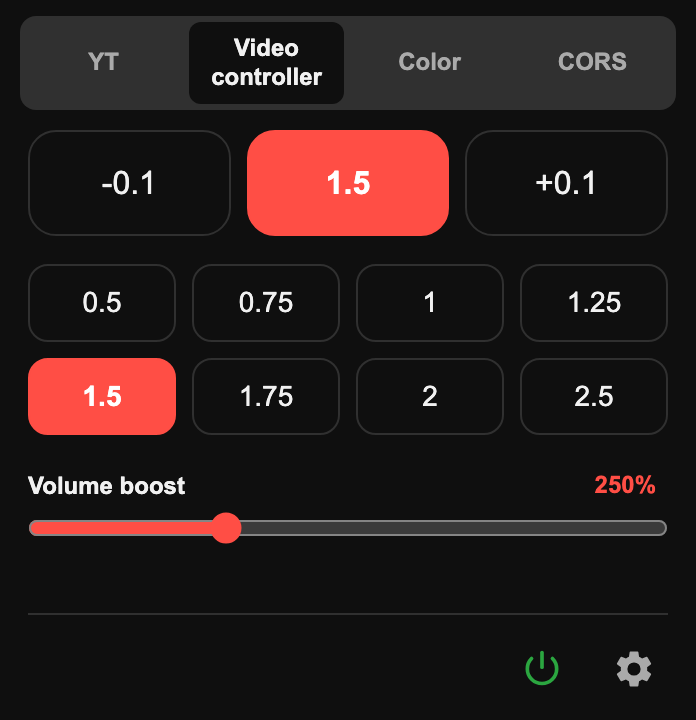
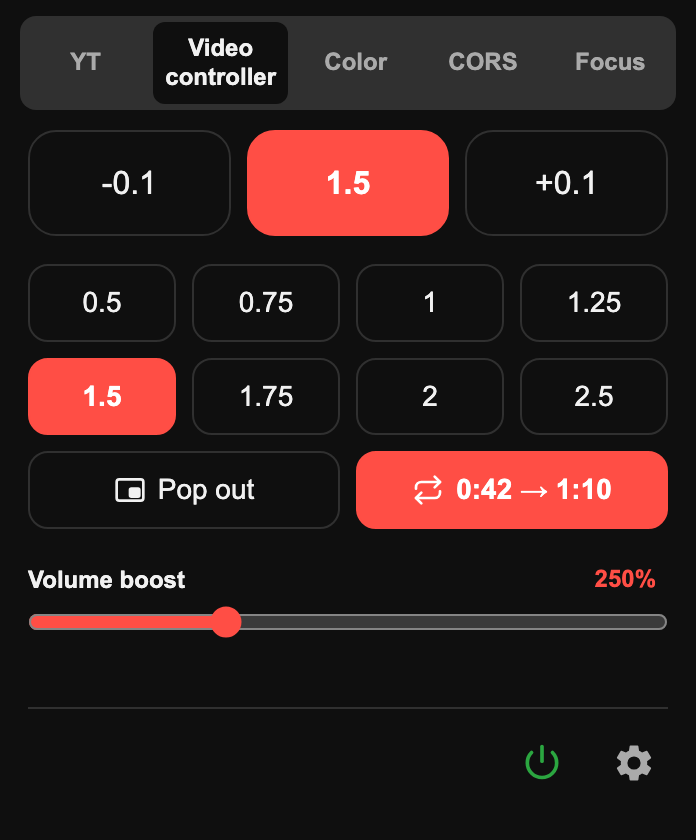
Add picture-in-picture and A–B loop to the Video controller
P toggles picture-in-picture and A sets a loop start, end, then clears it.
Both are also on the video overlay and in the popup.

diff --git a/speed.js b/speed.js
@@ -5,7 +5,8 @@
 // media inside shadow DOM.
 //
 // Keys: S slower, D faster, R reset to 1× (again: back), G toggle 1.8×,
-//       Z back 10s, X forward 10s, V show/hide the speed overlay.
+//       Z back 10s, X forward 10s, V show/hide the speed overlay,
+//       P picture-in-picture, A A–B loop (set start, set end, clear).
 //
 // Also boosts volume past 100% (set from the popup), like the Volume Booster
 // extension, by routing each element through a Web Audio gain node.
@@ -21,7 +22,8 @@
   // user's choice (e.g. YouTube's own speed menu) and adopted.
   const GRACE = 2000;
   const STORE = 'speed-last';
-  const KEYS = { s: 'slower', d: 'faster', r: 'reset', g: 'preferred', z: 'rewind', x: 'advance', v: 'display' };
+  const KEYS = { s: 'slower', d: 'faster', r: 'reset', g: 'preferred', z: 'rewind', x: 'advance', v: 'display',
+    p: 'pip', a: 'loop' };
 
   let settings = { ...YTQH_DEFAULTS };
   let speed = 1;
@@ -29,7 +31,7 @@
   let overlaysHidden = false;
   let hasDetached = false; // speed-main.js has seen page-created audio
   let sweepTimer = 0;
-  const media = new Map(); // element -> { host, box, label, loadedAt }
+  const media = new Map(); // element -> { host, box, label, loadedAt, loopA, loopB }
 
   const active = () => settings.enabled && settings.speed;
   const round = (v) => Math.round(Math.min(MAX, Math.max(MIN, v)) * 100) / 100;
@@ -44,6 +46,13 @@
     media.set(el, st);
     const loaded = () => { st.loadedAt = Date.now(); enforce(el); place(el); boostEl(el); };
     el.addEventListener('loadstart', loaded);
+    // YouTube reuses the same element for the next video: drop its loop.
+    el.addEventListener('loadstart', () => clearLoop(el));
+    el.addEventListener('ended', () => {
+      if (st.loopB == null) return;
+      el.currentTime = st.loopA;
+      el.play().catch(() => {});
+    });
     el.addEventListener('loadedmetadata', loaded);
     el.addEventListener('play', loaded);
     el.addEventListener('ratechange', () => onRateChange(el));
@@ -120,7 +129,9 @@
   `;
 
   const BUTTONS = [['rewind', '«', 'Back 10s (Z)'], ['slower', '−', 'Slower (S)'],
-    ['faster', '+', 'Faster (D)'], ['advance', '»', 'Forward 10s (X)'], ['display', '×', 'Hide (V)']];
+    ['faster', '+', 'Faster (D)'], ['advance', '»', 'Forward 10s (X)'],
+    ['loop', '⟲', 'A–B loop (A)'], ['pip', '⧉', 'Picture-in-picture (P)'], ['display', '×', 'Hide (V)']];
+  const BEFORE_LABEL = new Set(['rewind', 'slower']);
 
   function build(el, st) {
     const host = document.createElement('ytqh-speed');
@@ -139,7 +150,7 @@
       b.textContent = text;
       b.title = title;
       b.addEventListener('click', () => run(action));
-      box.insertBefore(b, action === 'faster' || action === 'advance' || action === 'display' ? null : label);
+      box.insertBefore(b, BEFORE_LABEL.has(action) ? label : null);
     }
     // Keep clicks on the overlay from pausing or seeking the player underneath.
     for (const type of ['click', 'dblclick', 'mousedown', 'mouseup', 'pointerdown', 'pointerup', 'touchstart']) {
@@ -179,7 +190,9 @@
 
   function updateLabel(el) {
     const st = media.get(el);
-    if (st?.label) st.label.textContent = fmt(el.playbackRate);
+    if (!st?.label) return;
+    const loop = st.loopB != null ? ' A–B' : st.loopA != null ? ' A' : '';
+    st.label.textContent = fmt(el.playbackRate) + loop;
   }
 
   function flash() {
@@ -214,6 +227,93 @@
     document.dispatchEvent(new CustomEvent('ytqh-seek', { detail: delta }));
   }
 
+  // The element the user most likely means: a playing video, then any playing
+  // media, then the biggest video on the page.
+  function mainMedia() {
+    const els = [...media.keys()].filter((el) => el.isConnected);
+    const isVideo = (el) => el instanceof HTMLVideoElement;
+    const area = (el) => el.offsetWidth * el.offsetHeight;
+    return els.find((el) => isVideo(el) && !el.paused) || els.find((el) => !el.paused) ||
+      els.filter(isVideo).sort((a, b) => area(b) - area(a))[0] || els[0] || null;
+  }
+
+  // --- Picture-in-picture ---
+
+  async function togglePip() {
+    if (document.pictureInPictureElement) {
+      await document.exitPictureInPicture().catch(() => {});
+      return 'exited';
+    }
+    const el = mainMedia();
+    if (!(el instanceof HTMLVideoElement) || !document.pictureInPictureEnabled) return null;
+    // Some sites opt their player out; the user asked for it, so opt back in.
+    el.removeAttribute('disablePictureInPicture');
+    try {
+      await el.requestPictureInPicture();
+      return 'entered';
+    } catch {
+      return 'failed';
+    }
+  }
+
+  // The popup calls this through chrome.scripting.executeScript, which
+  // carries over the click on its button: requestPictureInPicture() needs one.
+  window.ytqhTogglePip = () => (active() ? togglePip() : null);
+
+  // --- A–B loop ---
+
+  let loopTimer = 0;
+
+  function clearLoop(el) {
+    const st = media.get(el);
+    if (!st || st.loopA == null) return;
+    st.loopA = st.loopB = null;
+    updateLabel(el);
+  }
+
+  // First press marks A, second marks B and starts looping, third clears it.
+  function cycleLoop() {
+    const el = mainMedia();
+    const st = media.get(el);
+    if (!st) return;
+    const t = el.currentTime;
+    if (st.loopA == null) {
+      st.loopA = t;
+    } else if (st.loopB == null) {
+      const [a, b] = t < st.loopA ? [t, st.loopA] : [st.loopA, t];
+      if (b - a < 0.5) {
+        clearLoop(el);
+      } else {
+        Object.assign(st, { loopA: a, loopB: b });
+        el.currentTime = a;
+        // timeupdate only fires every ~250ms, too coarse to end the loop on time.
+        loopTimer ||= setInterval(loopTick, 50);
+      }
+    } else {
+      clearLoop(el);
+    }
+    updateLabel(el);
+    flash();
+  }
+
+  function loopTick() {
+    let looping = false;
+    for (const [el, st] of media) {
+      if (st.loopB == null) continue;
+      looping = true;
+      if (el.currentTime >= st.loopB) el.currentTime = st.loopA;
+    }
+    if (!looping) {
+      clearInterval(loopTimer);
+      loopTimer = 0;
+    }
+  }
+
+  function loopState() {
+    const st = media.get(mainMedia());
+    return st?.loopA != null ? { a: st.loopA, b: st.loopB } : null;
+  }
+
   function run(action) {
     switch (action) {
       case 'slower': return setSpeed(speed - STEP);
@@ -224,6 +324,8 @@
       case 'preferred': return setSpeed(speed === PREFERRED ? 1 : PREFERRED);
       case 'rewind': return seek(-SEEK);
       case 'advance': return seek(SEEK);
+      case 'pip': return togglePip();
+      case 'loop': return cycleLoop();
       case 'display':
         overlaysHidden = !overlaysHidden;
         for (const el of media.keys()) place(el);
@@ -337,13 +439,15 @@
       return;
     }
     (async () => {
+      if (msg.loop && active()) cycleLoop();
       if ('boost' in msg && active()) {
         boost = Math.min(6, Math.max(1, msg.boost));
         await applyBoost();
       }
       if (!hasMedia) await new Promise((r) => setTimeout(r, 150));
       const routable = [...media.keys()].some((el) => el.isConnected && (gains.has(el) || canRoute(el)));
-      reply({ speed, hasMedia, boost, boostBlocked, boostUnsupported: hasMedia && !routable });
+      reply({ speed, hasMedia, boost, boostBlocked, boostUnsupported: hasMedia && !routable,
+        loop: loopState(), pip: !!document.pictureInPictureElement });
     })();
     return true;
   });

diff --git a/popup.js b/popup.js
@@ -119,6 +119,8 @@ function askTab(msg) {
       }
       showSpeed(res.speed);
       showBoost(res.boost ?? 1);
+      showLoop(res.loop);
+      document.getElementById('pip-btn').classList.toggle('active', !!res.pip);
       status.textContent = !res.hasMedia ? 'No video or audio on this page yet.'
         : res.boostBlocked ? 'Click anywhere on the page once to start the volume boost.'
         : res.boostUnsupported && res.boost > 1 ? 'This page\'s audio can\'t be boosted (it comes from another site).'
@@ -143,6 +145,42 @@ document.getElementById('speed-power').addEventListener('click', () => {
 document.getElementById('speed-gear').addEventListener('click', (e) => {
   speedForm.hidden = !speedForm.hidden;
   e.currentTarget.classList.toggle('on', !speedForm.hidden);
+});
+
+// --- Picture-in-picture and A–B loop ---
+
+const loopBtn = document.getElementById('loop-btn');
+const loopLabel = document.getElementById('loop-label');
+const clock = (t) => `${Math.floor(t / 60)}:${String(Math.floor(t % 60)).padStart(2, '0')}`;
+
+function showLoop(loop) {
+  loopLabel.textContent = !loop ? 'Set A'
+    : loop.b == null ? `${clock(loop.a)} → set B` : `${clock(loop.a)} → ${clock(loop.b)}`;
+  loopBtn.classList.toggle('active', loop?.b != null);
+}
+
+// Runs speed.js's toggle through executeScript rather than a message, because
+// only executeScript passes this click on to the page, and the browser won't
+// open picture-in-picture without one.
+document.getElementById('pip-btn').addEventListener('click', () => {
+  if (!speedOn) return;
+  chrome.tabs.query({ active: true, currentWindow: true }, ([tab]) => {
+    if (!tab) return;
+    chrome.scripting.executeScript({
+      target: { tabId: tab.id, allFrames: true },
+      func: () => window.ytqhTogglePip?.() ?? null,
+    }, (res) => {
+      const results = chrome.runtime.lastError ? [] : (res || []).map((r) => r.result);
+      if (results.includes('entered')) window.close();
+      else if (results.includes('exited')) document.getElementById('pip-btn').classList.remove('active');
+      else status.textContent = results.includes('failed')
+        ? 'This video can\'t be popped out.' : 'No video to pop out on this page.';
+    });
+  });
+});
+
+loopBtn.addEventListener('click', () => {
+  if (speedOn) askTab({ loop: true });
 });
 
 // --- Volume boost ---

diff --git a/popup.html b/popup.html
@@ -29,6 +29,16 @@
       <button type="button" class="speed-btn" data-step="0.1">+0.1</button>
     </div>
     <div class="speed-presets" id="speed-presets"></div>
+    <div class="speed-tools">
+      <button type="button" class="speed-btn tool-btn" id="pip-btn" title="Picture-in-picture (P)">
+        <svg viewBox="0 0 24 24" width="16" height="16" fill="none" stroke="currentColor" stroke-width="2" stroke-linecap="round" stroke-linejoin="round"><rect x="2" y="4" width="20" height="16" rx="2"/><rect x="12" y="11" width="7" height="6" rx="1" fill="currentColor"/></svg>
+        <span>Pop out</span>
+      </button>
+      <button type="button" class="speed-btn tool-btn" id="loop-btn" title="A–B loop (A): set start, set end, clear">
+        <svg viewBox="0 0 24 24" width="16" height="16" fill="none" stroke="currentColor" stroke-width="2" stroke-linecap="round" stroke-linejoin="round"><path d="m17 2 4 4-4 4"/><path d="M3 11v-1a4 4 0 0 1 4-4h14"/><path d="m7 22-4-4 4-4"/><path d="M21 13v1a4 4 0 0 1-4 4H3"/></svg>
+        <span id="loop-label">Set A</span>
+      </button>
+    </div>
     <div class="boost">
       <div class="boost-head">
         <span>Volume boost</span>

diff --git a/popup.css b/popup.css
@@ -175,6 +175,21 @@ body.off .row:not(:first-of-type) {
   font-size: 16px;
 }
 
+.speed-tools {
+  display: grid;
+  grid-template-columns: 1fr 1fr;
+  gap: 8px;
+  margin-top: 8px;
+}
+
+.tool-btn {
+  display: flex;
+  align-items: center;
+  justify-content: center;
+  gap: 6px;
+  font-variant-numeric: tabular-nums;
+}
+
 .speed-btn:hover {
   border-color: var(--accent);
 }
@@ -229,7 +244,8 @@ body.off .row:not(:first-of-type) {
 }
 
 .speed-off .speed-main,
-.speed-off .speed-presets {
+.speed-off .speed-presets,
+.speed-off .speed-tools {
   opacity: 0.4;
   pointer-events: none;
 }

diff --git a/features.js b/features.js
@@ -47,7 +47,7 @@ const YTQH_FEATURES = [
   { key: 'speed', label: 'Speed controller for video and audio', def: true },
   { key: 'speed-overlay', label: 'Show speed on videos', def: true },
   { key: 'speed-remember', label: 'Remember speed across videos', def: true },
-  { note: 'S / D slower / faster · R reset · G 1.8× · Z / X back / forward 10s · V show / hide' },
+  { note: 'S / D slower / faster · R reset · G 1.8× · Z / X back / forward 10s · P pop out · A A–B loop · V show / hide' },
 ];
 
 const YTQH_DEFAULTS = Object.fromEntries(

diff --git a/README.md b/README.md
@@ -22,6 +22,8 @@ No accounts, no tracking, no build step. Everything runs locally and your settin
 ### ⏩ Video controller (works on every site)
 - Change playback speed for any `<video>` or `<audio>`, with presets from 0.5× to 2.5×.
 - Boost volume up to 600%.
+- **Pop out** any video into a picture-in-picture window.
+- **A–B loop**: repeat a chosen section, handy for music practice or tutorials.
 - Keyboard shortcuts:
 
   | Key | Action |
@@ -30,6 +32,8 @@ No accounts, no tracking, no build step. Everything runs locally and your settin
   | `R` | Reset to 1× |
   | `G` | Toggle 1.8× |
   | `Z` / `X` | Back / forward 10s |
+  | `P` | Picture-in-picture on / off |
+  | `A` | A–B loop: set start, set end, clear |
   | `V` | Show / hide the speed overlay |
 
 ### 🎨 Color
